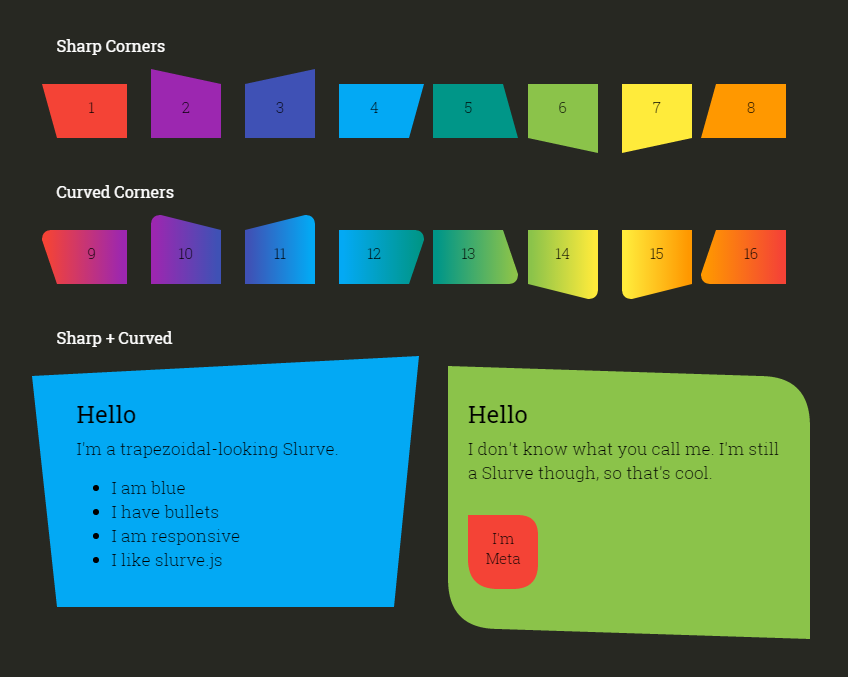
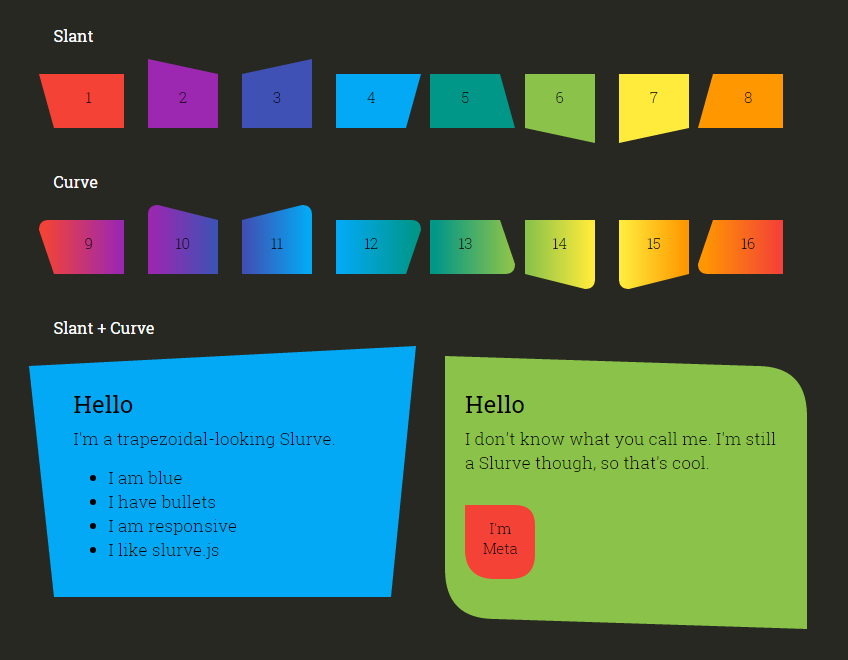
slurvejs.com update
Updated existing image to match article update, added new images that
align with site launch.

diff --git a/README.md b/README.md
@@ -1,14 +1,17 @@
 #slurve.js
 
-Slurve is slants + curves. Create beautiful slants and curves in web UIs.
+Slant + Curve = Slurve. slurve.js - Beautiful Slants and Curves in Web UIs
 
-View the overview article at www.derekknox.com/articles/slurve-js/
+View the website at www.slurvejs.com
+![Image](assets/images/slurve-example-site-basics.png)
+![Image](assets/images/slurve-example-site-examples.png)
 
+View the initial overview article at www.derekknox.com/articles/slurve-js/
 ![Image](assets/images/slurve-example.png)
 
 ##*Notes
 
-Slurve has wide browser support as its core dependency is basic SVG.
+slurve.js has wide browser support as its core dependency is basic SVG.
 
 Chrome, Firefox, Safari, Edge, IE9+
 
